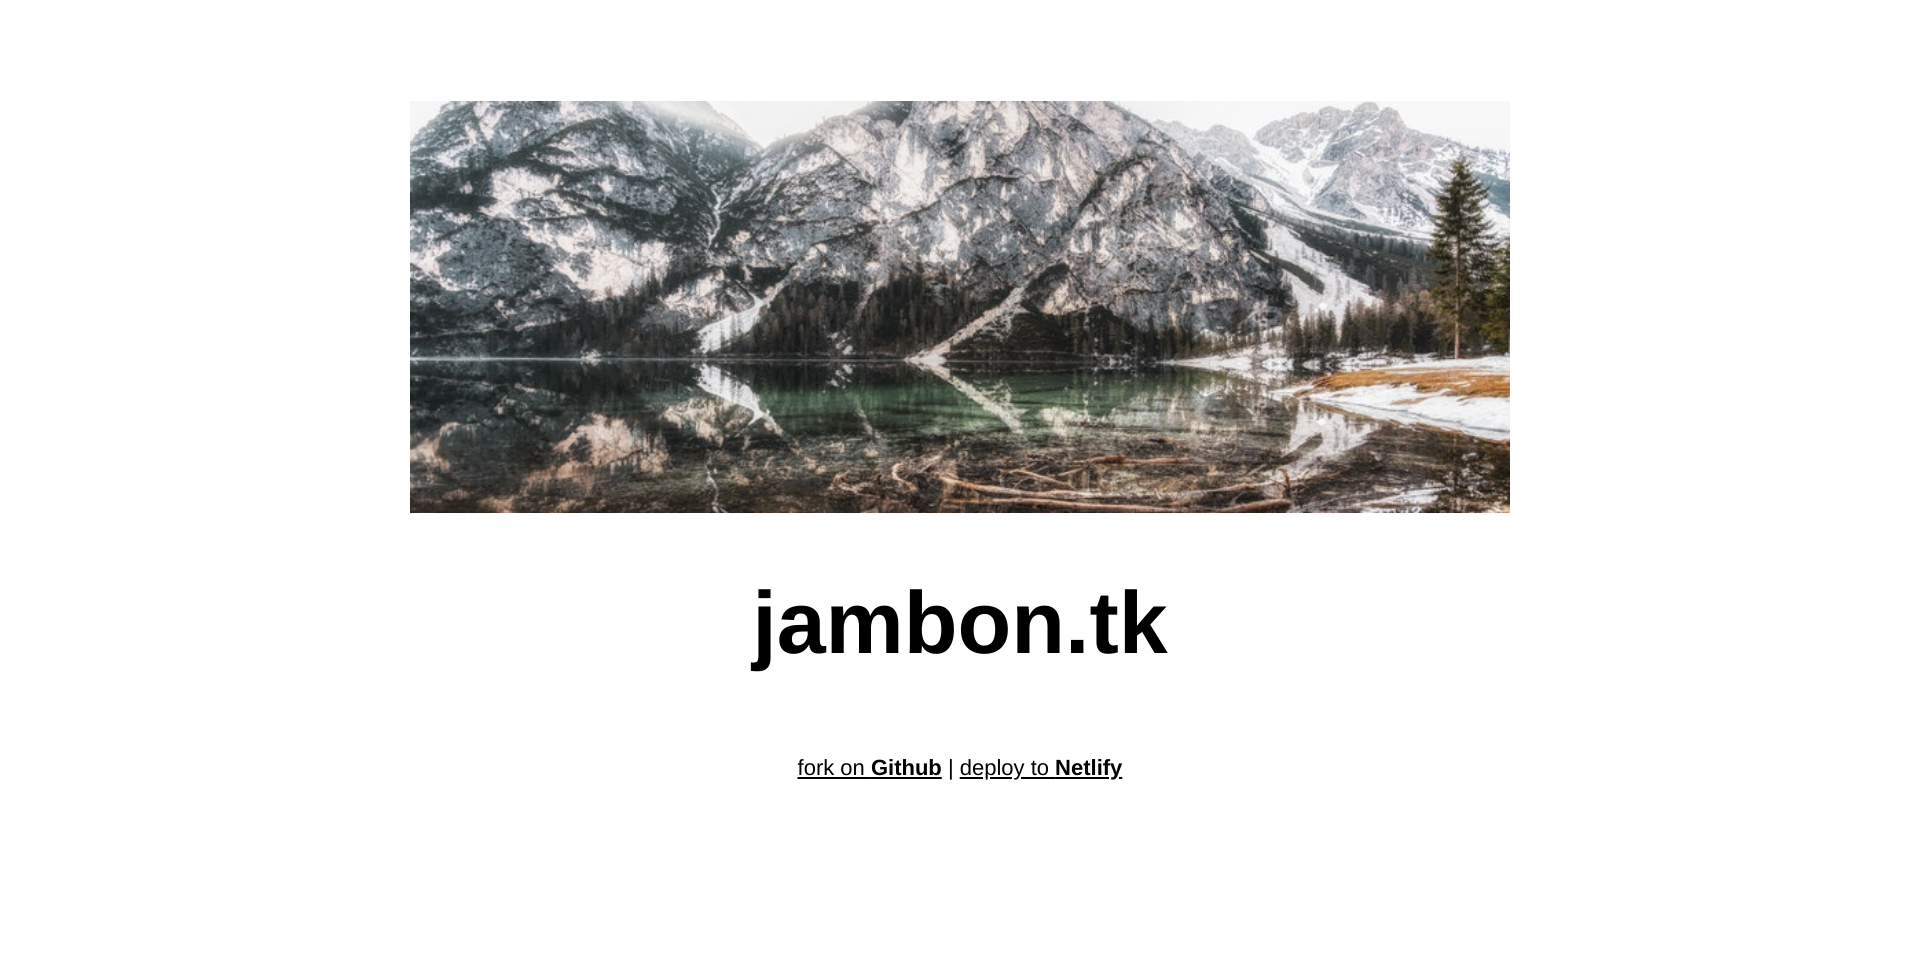
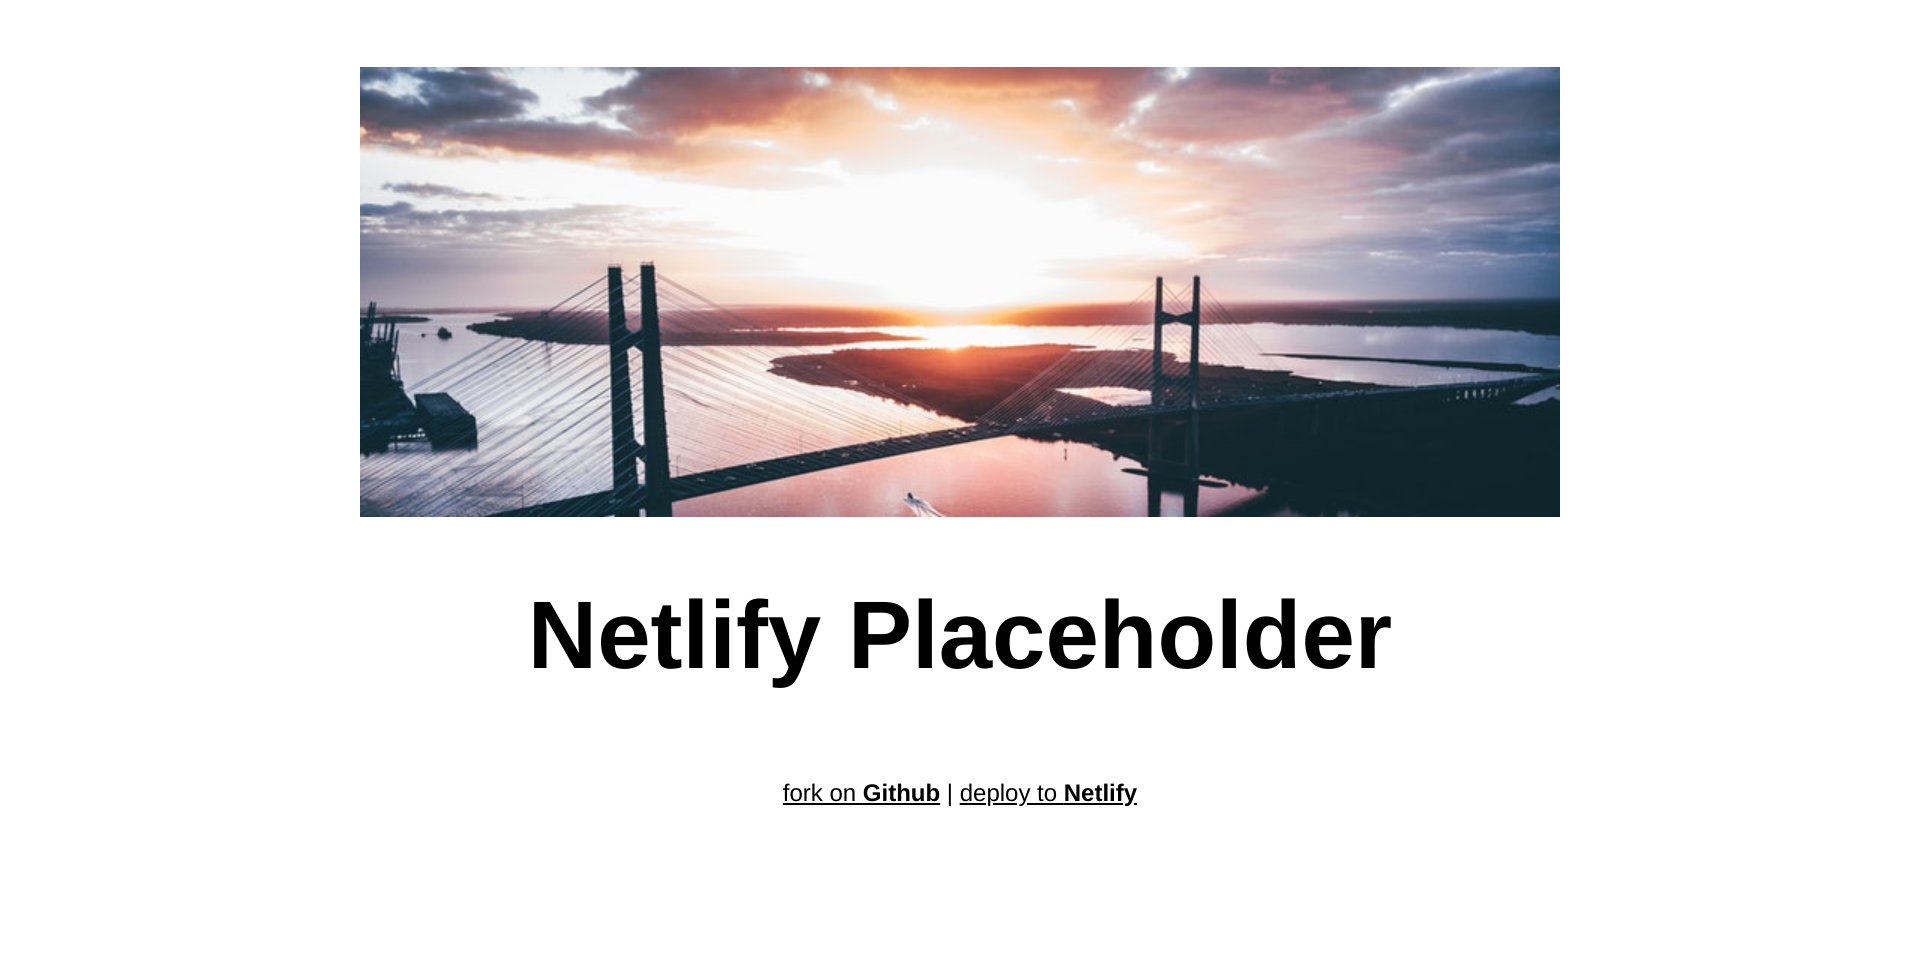
reverted url, added screenshot

Changed region(s): [[0.1845, 0.0621, 0.8301, 0.559], [0.2767, 0.5901, 0.7379, 0.7143], [0.3997, 0.7764, 0.5842, 0.8385]]

diff --git a/js/scripts.js b/js/scripts.js
@@ -1,6 +1,5 @@
 document.addEventListener('DOMContentLoaded', function() {
-    // const url = window.location.host || "localhost";
-    const url = "Netlify Placeholder"
+    const url = window.location.host || "localhost";
     document.getElementById("website-name").textContent = url;
     document.title = url + " | damosullivan/netlify-placeholder";
 }, false);
